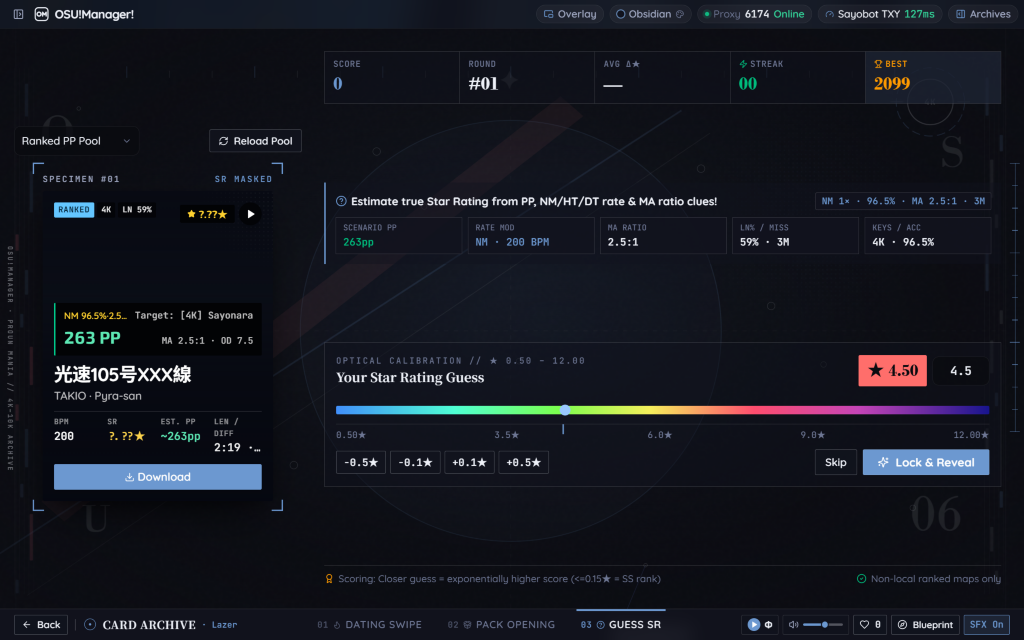
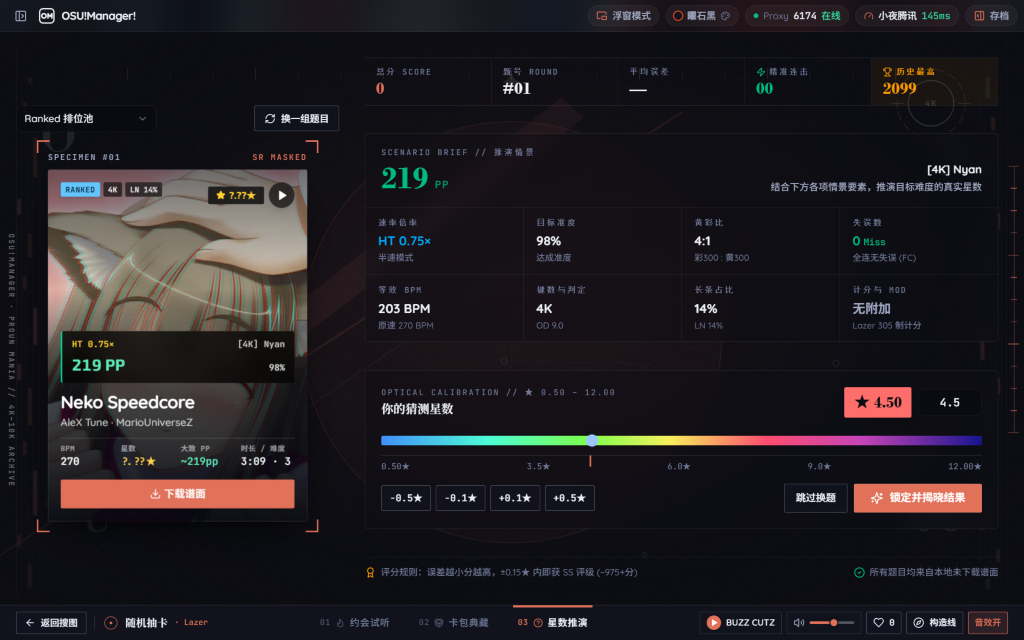
docs: update README, AGENT, CHANGELOG, DEVLOG and v1.16.1 screenshot

diff --git a/README.md b/README.md
@@ -112,11 +112,11 @@
       <sub>Default tab, HD fullsize artwork fanned right, direct group swipe targeting &amp; Constructivist foil backs</sub>
     </td>
     <td width="50%" align="center" valign="top">
-      <a href="docs/screenshots/12-gacha-guess.png"><img src="docs/screenshots/12-gacha-guess.png" alt="Random Card Draw — Obsidian Dark English Guess SR Mode with NM/HT/DT and MA Ratio" width="100%" /></a>
+      <a href="docs/screenshots/12-gacha-guess.png"><img src="docs/screenshots/12-gacha-guess.png" alt="Random Card Draw — Obsidian Dark Guess SR Mode with 8-Element Scenario Brief and 2D PROUN Backdrop" width="100%" /></a>
       <br />
-      <strong>12 · 随机抽卡 · 03 星数推演（暗色英文 · NM/HT/DT 与黄彩比 / MA Ratio · 锁定详情）</strong>
+      <strong>12 · 随机抽卡 · 03 星数推演（曜石黑 · Hero PP 顶栏与八项独立情景要素 · 锁定详情）</strong>
       <br />
-      <sub>Open Three.js backdrop, Details locked, 24 NM/HT/DT scenarios with MA Ratio, Zap streak &amp; delta ruler</sub>
+      <sub>Pure 2D PROUN backdrop, Details locked, Hero PP + 8-element Scenario Brief (Rate / Acc / MA / Miss / BPM / Keys·OD / LN% / Mods)</sub>
     </td>
   </tr>
   <tr>
@@ -159,7 +159,7 @@
 2. **Ranked 大致 PP 估算、情景筛选与 PP 计算器**
    - 所有列表与难度表直接显示 `ranked` / `approved` 谱面的大致 PP（`~XXXpp`）。
    - 筛选栏配备加粗 **Lazer 光谱星数双滑块（`0.0★–15.0★ / ∞`）** 与 **PP 范围双滑块（`0–2000pp / ∞`）**，以及主从分栏 **PP 情景库**（覆盖 `NM`、`DT 1.5x`、`HT 0.75x`、`变速 Rate` 与持久化 `自定义` 组合）。
-   - 内置交互式 PP 计算器，支持调整准度（80%–100%）、Miss、倍速、Mod 与 **自定义黄彩比（320:300）**，并可对未上架练习图模拟计算。
+   - 内置交互式 PP 计算器（对齐 `ppy/osu` Mania 准度制公式），支持调整准度（80%–100%）、Miss、倍速、**Lazer (305) / Classic (300)** 计分换算、Mod 与 **自定义黄彩比（320:300）**，并可对未上架练习图模拟计算。
 
 3. **双端曲库识别、零流量同步与极速批量下载**
    - 自动扫描 `osu!stable`（`Songs/`、`osu!.db`）与 `osu!lazer`（`client.realm` 只读二进制直读 + `files/`），本地已装谱面在任意视图自动点亮**四边金色框体**。
@@ -189,13 +189,13 @@
    - 覆盖搜图选歌、详情/PP 计算器、Mania 预览器、3D Book 档案库、OSU! 音乐台、游戏内浮窗、Electron 系统托盘菜单与后端错误/镜像描述的全量中英双语体验。
    - 可在「设置 → 分区 3」或新手引导右上角切换 `简体中文` / `English`（切换立即预览，点保存持久化至 `config.json`，取消/Esc 自动回滚）；右上角测速状态与提示文案严格跟随用户实际配置的 `proxyPort`（不再固定写死 `6174`）与直连/代理模式动态显示。
 
-10. **随机抽卡工作室（`v1.16.0` — 纯 2D PROUN 平面构成舞台 · 炉石拖拽开包 · 原画高清封面 · 动态构成主义卡背）**
+10. **随机抽卡工作室（`v1.16.1` — 纯 2D PROUN 平面构成舞台 · 炉石拖拽开包 · 原画高清封面 · 极简八要素猜星台）**
    - 在浏览模式 `Lazer` 按钮右侧提供「随机抽卡」入口，打开后**自动收起主左侧栏与存档栏**；模式切换栏下移至纤细的**底部导航 Dock**，**默认直接进入 `01 约会试听`**（顺序为 `01 约会试听 · 02 卡包典藏 · 03 星数推演`）。
    - **纯 2D PROUN × osu!mania 4K 平面构成背景（零 WebGL 开销）**：以高精度 SVG 构成主义海报几何与远边距双侧 `osu!mania` 4K 动态下落音符带替代 3D 模型渲染，随约会 / 卡包 / 推演三模式与全局主题切换构图（`B` 键切换平面辅助构造线），兼顾视觉锐度与轻量化性能。
    - **动态构成主义 × osu! 动效卡背（全新替换）**：告别星空样式，采用融合全局主题 `--t-osu` 的深炭金属 Foil 质感卡背，集成包豪斯斜切角、流光扫掠（Specular Foil Sweep）、双侧实时滚动的 `osu!mania` 4K 窄轨音符条以及中央双圈旋动游标尺 + 呼吸缩圈 `osu!` Approach Ring。
-   - **炉石传说风拖拽开包 + 秒开预取 + 高清卡片 & 20px 矢量金属脊**：左侧卡包叠放可按住拖拽并随速度产生 3D 倾斜，拖向右侧「Opening Altar」祭坛时逐级点亮光晕与瞄准锁框，松手磁吸炸开 3D 圆环（拖出松手平滑回弹，亦可点击或拉动顶部虚线封条）；卡片封面通过 `/api/media/cover/:id?hd=1` 代理缓存 `fullsize.jpg` 原画大图，配合 360° 立体检视器的真 3D `translateZ` 推进变焦与 `20px` 高精度 `<svg>` 钛金属雕刻侧脊（含纵向 `OSU! // ★SR // BPM // #serial`），彻底消除放大糊边。
+   - **炉石传说风拖拽开包 + 秒开预取 + 高清卡片 & 20px 矢量金属脊**：左侧卡包叠放可按住拖拽并随速度产生 3D 倾斜，拖向右侧「Opening Altar」祭坛时逐级点亮光晕与瞄准锁框，松手磁吸炸开 3D 圆环（拖出松手平滑回弹，亦可点击或拉动顶部虚线封条）；卡片封面通过 `/api/media/cover/:id?hd=1` 代理缓存 `fullsize.jpg` 原画大图，10 张紧凑圆环悬停单行显示「点击 360° 检视」，配合 360° 立体检视器的真 3D `translateZ` 推进变焦与 `20px` 高精度 `<svg>` 钛金属雕刻侧脊（含纵向 `OSU! // ★SR // BPM // #serial`），彻底消除放大糊边。
    - **多分组持久心动曲库与 `07 条件自选池`**：全模式收藏持久保存至 `data/gacha-collections.json`，支持新建/重命名/清空/删除分组、单曲多分组勾选分配、按组批量下载及约会顶部目标组直选；`07 条件自选池` 配备独立弹窗支持自主配池、同步主搜图条件与导入 Filter 存档。
-   - **03 星数推演**：移除卡片 `详情` 入口严格防止窥见真实星数，提供 24 种严格基于 `NM (1.0x)` / `HT (0.75x)` / `DT (1.5x)` 倍率与**黄彩比（`MA Ratio`）**/ Miss / `EZ` / `Classic` 组合的情景线索与闪电连击徽标。
+   - **03 星数推演**：移除卡片 `详情` 入口严格防止窥见真实星数，采用与 2D 舞台通透融合的极简 Hero PP 顶栏与 **4×2 八项独立情景要素网格**（速率倍率 / 目标准度 / 黄彩比 / 失误数 / 等效 BPM / 键数与判定 / 长条占比 / 计分与 Mod），提供 24 种严格基于 `NM (1.0x)` / `HT (0.75x)` / `DT (1.5x)` 倍率的实景推演。
 
 ### 快速开始
 
@@ -254,7 +254,7 @@ No osu! login or session cookie is required. It brings together multi-mirror bea
   - **Lazer Song Select (`lazer`)**: Viewport-locked split layout with rAF-driven curved carousel, staggered difficulty rows, `SR / OD / HP / LN%` bars, quick `HT / NM / DT` PP readout, full keyboard navigation (`↑/↓`, `←/→`, `Space`, `Enter`), and full-window cover-art theming.
   - **Grid (`grid`) & List (`list`) Views**: Dense card/list browsing with infinite scroll loading and gold borders on locally installed beatmaps.
 - **Ranked PP Estimation, Scenario Presets & PP Calculator**
-  - Dual-thumb spectral Star Rating (`0.0★–15.0★ / ∞`) and PP (`0–2000pp / ∞`) sliders plus master-detail scenario presets (`NM`, `DT 1.5x`, `HT 0.75x`, custom `Rate`, and saved presets) and a custom `320:300` MA ratio calculator.
+  - Dual-thumb spectral Star Rating (`0.0★–15.0★ / ∞`) and PP (`0–2000pp / ∞`) sliders plus master-detail scenario presets (`NM`, `DT 1.5x`, `HT 0.75x`, custom `Rate`, and saved presets), **official `ppy/osu` Mania PP accuracy math**, `Lazer (305)` / `Classic (300)` scoring conversion, and a custom `320:300` MA ratio calculator.
 - **Dual-Client Recognition, Zero-Traffic Sync & Fast Batch**
   - Scans both `osu!stable` (`Songs/`, `osu!.db`) and `osu!lazer` (zero-native-dep read-only `client.realm` + `files/`).
   - Sync maps missing in Lazer directly from Stable without re-downloading, launch/focus either game client from the sidebar, and run `1–500` map text-only Fast Batch downloads across 7 mirrors with IPv6 / proxy (`127.0.0.1:6174` default) smart routing.
@@ -271,12 +271,12 @@ No osu! login or session cookie is required. It brings together multi-mirror bea
 - **Full ZH / EN Bilingual Switcher & Dynamic Proxy Diagnostics**
   - Complete Simplified Chinese & English localization across Browse, Beatmap Detail & PP Calculator, Mania Previewer, 3D Book Archive, OSU! AUDIO Music Station, Acrylic Overlay, Electron Tray/Hotkeys, and backend mirror/status responses.
   - Switch live via **Settings → Section 3 (`简体中文 | English`)** or the onboarding header pill (persisted in `config.json`, safely rolls back on Cancel/Esc). Top-bar latency checks and toast notifications dynamically reflect your configured `proxyPort` or `Direct` mode.
-- **Random Card Draw Studio (`v1.16.0` — Pure 2D PROUN Graphic Stage, Hearthstone Drag-to-Altar, HD Covers & Kinetic Backs)**
+- **Random Card Draw Studio (`v1.16.1` — Pure 2D PROUN Graphic Stage, Hearthstone Drag-to-Altar, HD Covers & Minimalist 8-Element Guess Console)**
   - Accessible beside the `Lazer` view button in Browse mode; **automatically collapses both sidebars** on launch and exclusively draws non-local beatmapsets through clean numbered card pools (`01 All-Pool Mix` – `07 Custom Filter Pool`) and tier labels (`Standard` – `Apex 8★+`).
   - **Zero-WebGL 2D Flat PROUN × osu!mania Stage**: Replaces Three.js 3D meshes with a crisp flat vector editorial backdrop plus far-margin 2D `osu!mania` 4K scrolling rhythm lanes (adapting per tab and `B` blueprint mode) for sharper lines and minimal GPU overhead.
   - **Dynamic Constructivist × osu! Kinetic Card Back**: Replaces starry backdrops with a theme-infused (`--t-osu`) dark foil plate featuring Bauhaus diagonal cuts, drifting metallic sheen, twin live-scrolling 4K margin strips, counter-rotating vernier calipers, and a rhythmic contracting `osu!` Approach Ring.
-  - **Hearthstone Draggable Pack Table, HD Artwork & 20px Vector Spines**: Grab booster packs from a physical left reserve stack with velocity-driven 3D banking and drop them into a magnetically awakening right **Opening Altar** (outside drops smoothly spring back; tear seam drag & direct clicks remain supported). Cards fetch full-res `fullsize.jpg` covers via `/api/media/cover/:id?hd=1`, while the **360° Inspector** switches to true-3D `translateZ` zoom and razor-sharp **`20px` vector `<svg>` engraved titanium spines** (`OSU! // ★SR // BPM // #serial`), alongside `data/gacha-collections.json` multi-group favorites & the Pool `07` Custom Filter Modal.
-  - **03 Guess SR**: Keeps `Details` locked so stars stay hidden, serves 24 scenarios strictly using **`NM (1.0x)` / `HT (0.75x)` / `DT (1.5x)`** rates with **MA Ratio**, misses, and mod clues, plus a crisp Zap streak counter on the open 2D graphic canvas.
+  - **Hearthstone Draggable Pack Table, HD Artwork & 20px Vector Spines**: Grab booster packs from a physical left reserve stack with velocity-driven 3D banking and drop them into a magnetically awakening right **Opening Altar** (outside drops smoothly spring back; tear seam drag & direct clicks remain supported). Cards fetch full-res `fullsize.jpg` covers via `/api/media/cover/:id?hd=1` with a crisp single-line `360° INSPECT` hover badge even in compact 10-card rings, while the **360° Inspector** switches to true-3D `translateZ` zoom and razor-sharp **`20px` vector `<svg>` engraved titanium spines** (`OSU! // ★SR // BPM // #serial`), alongside `data/gacha-collections.json` multi-group favorites & the Pool `07` Custom Filter Modal.
+  - **03 Guess SR**: Keeps `Details` locked so stars stay hidden, pairing a translucent Hero PP header with a **4×2 grid of 8 independent scenario elements** (Rate, Accuracy, MA Ratio, Miss, Effective BPM, Keys & OD, LN%, Mods) across 24 `NM (1.0x)` / `HT (0.75x)` / `DT (1.5x)` challenges harmonized with the 2D graphic canvas.
 
 ### Quick Start
 

diff --git a/AGENT.md b/AGENT.md
@@ -50,7 +50,7 @@
 | `server/sources.ts` | 7 个下载镜像中英双语定义（含 `nameEn`/`shortNameEn`/`descriptionEn` 与 `getLocalizedMirrorInfo()`）：`sayobot-auto`, `sayobot-txy`, `nekoha`, `osudirect`, `beatconnect`, `nerinyan`, `official` |
 | `server/network.ts` | `undici` 多 IP 协议族直连（DNS 缓存 + IPv6 优先/双栈 Happy Eyeballs）/代理路由、`6174` 端口 TCP 探测、并发镜像测速 `benchmarkMirrors()` |
 | `server/search.ts` | `osu.direct` 主搜索 + Sayobot 故障转移、官网 URL/ID 直达、LN% 估算、PP 情景反推星数与精确过滤、本地状态注入及 `drawRandomBeatmapsets()`（Probe 0 加宽抽取 + fallback 探针 `Promise.allSettled` 并发加速） |
-| `server/pp.ts` | 后端 PP 计算引擎（与前端一致的 Mania/通用公式）与 `deriveStarBoundsFromPpFilter()` 星数区间反推 |
+| `server/pp.ts` | 后端 PP 计算引擎（对齐 `ppy/osu` 官方 Mania 准度制公式、区分 `Lazer 305` / `Classic 300` 换算与 LN 双判定）与 `deriveStarBoundsFromPpFilter()` 星数区间反推 |
 | `server/downloader.ts` | 并发下载队列、Magic Bytes (`PK\x03\x04`) 流首检测、自动切源重试、SSE 实时推送 |
 | `server/fastBatch.ts` | 快速跨页批量下载引擎：多镜像并发负载均衡、自动跨页扫描补齐目标数、跳过已装、IPv6/直连分流、Lazer 15 首合并 IPC 导入与节流 SSE 推送 |
 | `server/filterArchives.ts` | Filter 存档持久化管理：原子读写 `data/filter-archives.json`（上限 100 条、置顶排序、筛选条件与可选浏览位置上下文校验） |
@@ -59,7 +59,7 @@
 | `server/installer.ts` | `.osz` ZIP 校验 (`adm-zip` 与 `verifyOszFileFast` 尾目录异步速检)、Stable 解压/直投 `.osz`（`fastInstallToStable`）/运行期临时 IPC、Lazer 极速暂存/批量导入/运行加载、`launchGameClient()` 客户端拉起 |
 | `server/library.ts` | Stable `Songs` 扫描、Lazer `client.realm`/`online.db`/`files` 哈希扫描缓存、进程检测（含 `stableExeExists` / `lazerExeExists`）、双端差异比对 |
 | `server/realmReader.ts` | 零原生依赖只读 Realm v24 (`T-DB`) 二进制解析器（带文件锁临时拷贝回退），读取 Lazer `client.realm` 谱面、难度、元数据、文件映射与游玩成绩 |
-| `server/localLibrary.ts` | 双端本地曲库与成绩聚合器（融合 `osu!.db` / `Songs/` / `scores.db` 与 `client.realm` / `files/`），提供成绩去重、Mania PP 估算、延迟 `.osu` 背景提取与 SVG 回退、`.osu` 红线/Kiai/密度节奏解析及音频流输出 |
+| `server/localLibrary.ts` | 双端本地曲库与成绩聚合器（融合 `osu!.db` / `Songs/` / `scores.db` 与 `client.realm` / `files/`），提供成绩去重、全精度 float64 星数 Mania PP 估算、延迟 `.osu` 背景提取与 SVG 回退、`.osu` 红线/Kiai/密度节奏解析及音频流输出 |
 | `server/media.ts` | 封面图（支持 `?hd=1` 原画级 `fullsize.jpg` 优先拉取与独立 `cache/covers-hd/` 磁盘 LRU 缓存）与 MP3 音频试听代理 |
 | `server/preview.ts` | Mania `.osu` 解析（红线 BPM + 绿线 SV + Barline + NPS 密度）、本地/ZIP/`cache/osz` 音源查找、`206 Range` 音频流与背景图输出 |
 | `server/skins.ts` | 扫描 `D:\OSU\Skins` 与 `osu!.<user>.cfg` 激活皮肤、解析 `[Mania]` `skin.ini`、内置 3 套皮肤、PerCy 超长 LN PNG 无损前 2048 行扫描线裁切 (`cropPngTopRows`) |
@@ -83,7 +83,7 @@
 | `src/App.tsx` | 主工作区状态中心（配置与 `language` 持久化同步、SSE 订阅、全窗双缓冲封面背景与主色调取色、侧栏/筛选折叠与进入音乐台/随机抽卡时自动收起主左侧栏、主题/视图模式持久化、Lazer 按钮旁「随机抽卡」入口与 `<GachaStudio>` 切换、动态代理端口测速 Toast、滚底自动加载、批量选择与快速批量弹窗调度、`useCallback` 稳定列表回调） |
 | `src/constants.ts` | 8 套主题元信息 (`THEME_OPTIONS`)、10 组强调色预设、`DEFAULT_FONT_SCALE = 1.2`、双语工厂函数（`getViewModeOptions`, `getThemeOptions`, `getWorkflowPresets`, `getSortFields`, `getTargetMeta`, `getVariantOptions` 等）、官网光谱星数色阶 `getStarColor()` / `getStarSpectrum()`、统一双语 `getLnCategory()` |
 | `src/utils/themeColor.ts` | Canvas 24-bin 色相主色调提取器 (`extractDominantColor`) 与动态强调色 CSS 变量推导/应用 (`deriveAccentVariables`, `applyAccentVariables`, `clearAccentVariables`) |
-| `src/utils/pp.ts` | Ranked PP 准度制计算引擎（含 35 组 `NM / DT / HT / 变速` 情景预设与双语主/副展示文案、`localStorage` 自定义情景持久化、`calculateBeatmapPp`, `getQuickPpSummary`, `getBeatmapsetPpBadge`, `extractPpScenarioFromFilters`, `formatPpScenarioShort`, `isRankedForPp`） |
+| `src/utils/pp.ts` | Ranked PP 准度制计算引擎（对齐 `ppy/osu` 官方 Mania 公式含 `Lazer 305`/`Classic 300` 换算、35 组 `NM / DT / HT / 变速` 情景预设与双语展示文案、`localStorage` 自定义情景持久化、`calculateBeatmapPp`, `getQuickPpSummary`, `getBeatmapsetPpBadge`, `extractPpScenarioFromFilters`, `formatPpScenarioShort`, `isRankedForPp`） |
 | `src/utils/filterArchive.ts` | Filter 存档筛选净化、双语自动命名、语义摘要标签提取与创建时间格式化工具 |
 | `src/utils/maniaEngine.ts` | osu!mania Canvas2D 轨道渲染器（480p 坐标、BPM+SV 时间轴、PerCy `NoteBodyStyle` 0/1/2）与右侧滚动缩略图绘制引擎 |
 | `src/api.ts` | 前端 REST 封装（含随机抽卡 `drawGachaBeatmapsets`、`fetchGachaCollections`/分组与收藏 CRUD、Book 档案库、自定义壁纸、IPv6 网络状态、快速批量下载与游戏客户端启动接口） |
@@ -126,7 +126,7 @@
 | `src/components/DownloadDrawer.tsx` | 下载任务队列（含完成态预览/再加载按钮）与 Lazer 待导入队列批量导入抽屉 |
 | `src/components/FastBatchModal.tsx` | 极简纯文本「快速批量下载」工作台（目标数量 1–500、IPv6/直连分流、多镜像高并发与实时传输遥测） |
 | `src/components/LibrarySyncModal.tsx` | 双端曲库比对与 Stable→Lazer 零流量同步弹窗 |
-| `src/components/SettingsModal.tsx` | 客户端路径浏览、动态代理/IPv6 网络协议与镜像测速、`简体中文 / English` 界面语言切换（`segmented-auto` 防截断，即时预览/取消回滚/保存持久化）、8 主题/10 预设+自由取色强调色、界面字体大小缩放 (`85%–125%`，默认 `120%`)、自定义背景图与透明度 (`4%–100%`，默认 `75%`)、动态开关、浮窗热键、可选官方 Cookie 与「关于与帮助」（`v1.14.0` 版本号、GitHub 开源地址、重新观看新手引导）弹窗 |
+| `src/components/SettingsModal.tsx` | 客户端路径浏览、动态代理/IPv6 网络协议与镜像测速、`简体中文 / English` 界面语言切换（`segmented-auto` 防截断，即时预览/取消回滚/保存持久化）、8 主题/10 预设+自由取色强调色、界面字体大小缩放 (`85%–125%`，默认 `120%`)、自定义背景图与透明度 (`4%–100%`，默认 `75%`)、动态开关、浮窗热键、可选官方 Cookie 与「关于与帮助」（`v1.16.1` 版本号、GitHub 开源地址、重新观看新手引导）弹窗 |
 | `src/components/OnboardingModal.tsx` | 首次安装 6 步交互式环境配置与新手引导向导（右上角含 `中文 / EN` 快速切换、调用 `/api/config/detect-env` 探测多盘符客户端路径与本机代理端口，支持代理模式/端口预设、下载策略、实时主题/字号预览、配置摘要保存及防输入框箭头误触） |
 | `src/components/SelectField.tsx` | 统一下拉封装（支持 `<optgroup>` 嵌套匹配，解决 Chromium 原生箭头重叠问题） |
 | `src/components/gacha/gachaSketch.ts` | 参考 `Funkierry/the-masses-travels` 移植的确定性手绘 SVG 几何原语（过头抖动星环 `ring`、拱曲延展标尺 `rule`、毛笔 `brush`、光刃 `blade`、裁切角 `crops` 与星座连接） |
@@ -136,9 +136,10 @@
 | `src/components/gacha/GachaPackMode.tsx` | 卡包典藏模式（炉石风左侧储备卡包叠放 + 物理速度倾角拖拽投入右侧「Opening Altar」磁吸开包与拖出平滑回弹、支持虚线封条或点击开启、`01–07` 卡池选择与独立 Pool `07` 弹窗、Studio 预取秒开及 `<=1.0` 缩放高清 3D 圆环） |
 | `src/components/gacha/GachaCardInspectorModal.tsx` | Portal 挂载至 `document.body` (`z-[48]`) 的 360° 3D 立体卡片检视弹窗（真 3D `translateZ` 推进变焦无糊边、鼠标惯性 360° 旋转、`20px` 高精度矢量 `<svg>` 钛金属雕刻侧脊与 `OSU! // ★SR // BPM // #serial` 铭文、收藏红心、`F` 翻转至动态构成主义卡背、`R` 复位、`←/→` 切卡） |
 | `src/components/gacha/GachaDatingMode.tsx` | 约会试听模式（默认模式：通透无遮罩舞台、放大卡牌尺寸、右侧下方扇形叠放预告下两张卡片、顶部滑动目标分组选择器与切卡自动试听） |
+| `src/components/gacha/GachaGuessMode.tsx` | 猜星推演模式（通透毛玻璃极简控制台、Hero PP 顶栏、4×2 八项独立情景要素网格、光学星数校准尺、锁定详情防泄星与 `1280×720` 紧凑高度适配） |
 | `src/components/gacha/GachaCustomFilterModal.tsx` | Portal 弹窗形式 `POOL 07`「条件自选池」独立筛选配置面板（支持关键词/Keys/状态/SR/BPM/LN%/时长编辑，以及一键同步主搜图条件或导入 Filter 存档） |
 | `src/components/gacha/GachaLikedDrawer.tsx` | 默认收起的右侧多分组持久化「心动曲库」抽屉（支持新建、内联重命名、清空、安全删除分组、单曲多分组勾选分配、切换滑动目标组与按组一键批量下载） |
-| `src/components/gacha/BeatmapGachaCard.tsx` | 无边框 `3px` 收藏级 3D 正反谱面卡（默认请求 `?hd=1` 原画高清封面含失败自动回退、正反面 `translateZ(1px)` 防 Chromium 剔除错乱、翻牌粒子+光刃、全局收藏红心与可选 `onInspect` 360° 检视） |
+| `src/components/gacha/BeatmapGachaCard.tsx` | 无边框 `3px` 收藏级 3D 正反谱面卡（默认请求 `?hd=1` 原画高清封面含失败自动回退、正反面 `translateZ(1px)` 防 Chromium 剔除错乱、翻牌粒子+光刃、单行居中不换行 `点击 360° 检视` 悬停胶囊、全局收藏红心与可选 `onInspect`） |
 | `src/components/gacha/GachaCardBack.tsx` | **新增**：动态 Swiss / 构成主义 × `osu!` 动效卡背（全局 `--t-osu` 同色系暗炭 Foil 底、包豪斯斜切色块、斜向高光扫掠、双侧实时滚动 4K 窄轨音符条与中央双旋游标环 + 节奏缩圈 `osu!` Approach Ring） |
 | `src/components/gacha/gachaUtils.ts` | 去中二构图番号卡池配置（`01 综合图池`–`07 条件自选池`，含 `GachaPackSigil` 徽记与主题统一映射）、简明等级名（标准/进阶/专家/大师/巅峰）、24 种严格 `NM/HT/DT` + 黄彩比猜星情景与评分公式 |
 | `src/components/gacha/gachaSound.ts` | Web Audio API 合成开包撕裂、悬停律动、分阶翻牌爆裂、滑卡与猜星揭晓音效 |

diff --git a/docs/DEVLOG.md b/docs/DEVLOG.md
@@ -4,6 +4,32 @@
 
 ---
 
+## Session 27 — 修复卡包 360° 悬停换行、对齐官方 Mania PP 公式与重构星数推演八要素极简台 (`v1.16.1`)
+
+- **日期**：2026-11-26
+- **对话 ID**：`b77055a5-c9a6-48e8-8c6a-ac6acae69e19`
+- **功能代码提交**：`beb515c`
+
+### 需求与根因排查
+1. **卡包模式「点击 360° 检视」悬停排版换行**：`BeatmapGachaCard.tsx` 原悬停浮条锚定于 `top-11 left-1/2 -translate-x-1/2` 且缺少 `inline-flex whitespace-nowrap`，在紧凑圆环窄卡（`134–266px`）受限于半宽收缩被迫折成两行并与顶部星数徽标接近。改为跨全宽居中容器 `inset-x-0 top-[34%] flex justify-center` + `inline-flex shrink-0 whitespace-nowrap`，确保在 5 张/10 张卡包下始终单行居中且不遮挡上下角标与标题。
+2. **osu!mania PP 计算偏差根因与公式对齐**：
+   - 用户实测两份成绩偏差：`On And On!! feat. Jenga (Club Extended)` `[4K] And Or Nor Not`（Lazer NM `95.50%`, `2510/1902/403/44/10/12`）官服 `345.419pp` 误算为 `275.9pp`；`Triumph & Regret` `[4K] Regret`（Stable NM `98.83%`, `2542/1194/105/5/2/5`）官服 `293.32pp` 误算为 `225.3pp`。
+   - 对照上游 `ppy/osu` `ManiaPerformanceCalculator.cs`（`20241007+`）源码，定位两处公式误差与两处精度/换算误差：**官方总乘数基数为 `1.0`（而非 `0.8`），且 `ModClassic` 在 Mania 中无 `×0.96` 惩罚**（仅保留 `NF ×0.75` 与 `EZ ×0.5`）；同时 `localLibrary.ts` 之前将 `starRating` 截断为 2 位小数且 NM 仍查表 `starsByMod[0]`，而情景计算器未按 `Lazer (305)` / `Classic (300)` 基准将界面准度代数换算到官方 `320` 制 `customAccuracy`。
+   - 全量修正 `server/localLibrary.ts`（保留 `rawStarRating` float64 精度并优先采信最新 Lazer `client.realm` 星数）、`server/pp.ts` 与 `src/utils/pp.ts`（新增 `computeManiaCustomAccuracy()`、区分 Lazer LN 双判定计数并同步更新 `deriveStarBoundsFromPpFilter()`），以及 `PpCalculatorPanel.tsx` / `FilterPanel.tsx` 的 `Lazer (305)` / `Classic (300)` 按钮文案。
+3. **「03 星数推演」右侧情景 UI 极简化重构**：在 `GachaGuessMode.tsx` 彻底移除右上角拥挤串联小框（`DT 1.5× · 95% · 黄彩比 2:1 · 5M`）及嵌套实心底框，改用通透毛玻璃描边融入 2D PROUN 舞台；上方突出 Hero PP 与目标难度，下方 4×2 网格大方拆出 **速率倍率 / 目标准度 / 黄彩比 / 失误数 / 等效 BPM / 键数与判定 / 长条占比 / 计分与 Mod** 全部 8 项独立情景要素，并在 `1280×720` 复测捕捉到底部说明行贴边后微调自适应垂直间距彻底消除裁切。
+
+### 关键变更文件
+- **版本与后端计算**：`package.json` (`1.16.1`)、`src/constants.ts`、`server/localLibrary.ts`、`server/pp.ts`
+- **前端 PP 与抽卡 UI**：`src/utils/pp.ts`、`src/components/PpCalculatorPanel.tsx`、`src/components/FilterPanel.tsx`、`src/components/gacha/BeatmapGachaCard.tsx`、`src/components/gacha/GachaGuessMode.tsx`
+- **文档与截图**：`README.md`、`AGENT.md`、`CHANGELOG.md`、`docs/DEVLOG.md`、`docs/screenshots/12-gacha-guess.png`
+
+### 验证结果
+- **静态构建与纯 Node 实绩 PP 校验**：`npm run typecheck` 与 `npm run build` 均退出码 `0`；`verify-pp.mjs` 验证 `On And On!!` Lazer NM 为 `345.4 pp`（官服 `345.419`）、`Triumph & Regret` Stable NM 为 `293.3 pp`（官服 `293.32`，位列第一高于 Lazer `286.1 pp`），`calculateBeatmapPp` 与 `deriveStarBoundsFromPpFilter` 一致且包络真实星数。
+- **浏览器实机视觉验收 (`:3728`, `1440×900` & `1280×720`, Light/Obsidian)**：5 张与 10 张紧凑卡包悬停「点击 360° 检视」均测得单行 `93.00×18.35px`、水平零偏移居于封面中上区；「03 星数推演」浅色/曜石黑及揭晓态通透协调，修正后 `1280×720` 底部说明距底栏留白 `26px`、零横向溢出；`Book 档案库` 实显 `345.4 pp (估算)` 与 `293.3 pp (估算)`，计算器显示 `Lazer (305)` / `Classic (300)`；控制台与 HTTP `>=400` 报错均为 `0`。
+- **本地 EXE 打包与冒烟**：`npm run electron:pack` 生成 `release\win-unpacked\osu-manager.exe`（`FileVersion=1.16.1` / `ProductVersion=1.16.1`），隔离 `:3729` 冒烟实测 `GET /api/health` (`200`)、`GET /` (`200`) 及 `GET /api/books`（`On And On!!` `bestPp=345.4`、`Triumph & Regret` `bestPp=293.3`），清理后监听端口为 `0` 且 `data/config.json` 保持 `898` 字节未改动。
+
+---
+
 ## Session 26 — 纯 2D PROUN 平面舞台、炉石风拖拽开包、?hd=1 原画高清封面、20px 矢量金属脊与全新动效卡背 (`v1.16.0`)
 
 - **日期**：2026-11-26

diff --git a/CHANGELOG.md b/CHANGELOG.md
@@ -4,6 +4,19 @@ All notable changes to **OSU!Manager! (`osu-4k-dual-downloader`)** will be docum
 
 The format is based on [Keep a Changelog](https://keepachangelog.com/en/1.1.0/).
 
+## [1.16.1] - 2026-11-26
+
+### Changed & Fixed
+- **对齐 `ppy/osu` 官方 Mania 准度制 PP 公式（修复双端本地实绩与情景计算偏低）**（`server/localLibrary.ts`, `server/pp.ts`, `src/utils/pp.ts`, `src/components/PpCalculatorPanel.tsx`, `src/components/FilterPanel.tsx`）：
+  - 对照上游 `ppy/osu` `ManiaPerformanceCalculator.cs`（`20241007+`）：移除过时的 `0.8` 总乘数与误加的 `Classic ×0.96` 惩罚，改用官方 `multiplier = 1.0 * (NF ? 0.75 : 1) * (EZ ? 0.5 : 1)`；
+  - `server/localLibrary.ts` 保留 `client.realm` / `osu!.db` 全精度 float64 `StarRating`（并优先采信最新 Lazer `client.realm` 星数）用于本地成绩估算，消除 NM 覆盖旧 `osu!.db` 或 2 位小数舍入误差（实测 `On And On!!` Lazer NM 提升至 `345.4 pp`，`Triumph & Regret` Stable NM 提升至 `293.3 pp`）；
+  - `calculateBeatmapPp()` 与 `deriveStarBoundsFromPpFilter()` 新增 `computeManiaCustomAccuracy()` 代数换算 `Lazer (305)` / `Classic (300)` 准度与黄彩比并区分 Lazer LN 双端判定计数，同时将计算器切换按钮文本更新为 `Lazer (305)` / `Classic (300)`。
+- **修复卡包模式「点击 360° 检视」悬停标签换行排版**（`src/components/gacha/BeatmapGachaCard.tsx`）：
+  - 将正面上方居中胶囊改为跨全宽居中锚点（`inset-x-0 top-[34%]`）并施加 `inline-flex shrink-0 whitespace-nowrap`，在 5 张及 10 张紧凑卡包尺寸下均保持单行居中不换行，且与顶部星数徽标完全错开不重叠。
+- **重构「03 星数推演」右侧情景控制台美学与信息布局**（`src/components/gacha/GachaGuessMode.tsx`）：
+  - 移除右上角拥挤的串联摘要小框（`DT 1.5× · 95% · ...`）与沉重嵌套底框，改用通透毛玻璃极简描边适配 2D PROUN 背景；
+  - 上方展示大字号 Hero PP 与目标难度名，下方 4×2 网格独立舒展列出全部 8 项情景要素（速率倍率、目标准度、黄彩比、失误数、等效 BPM、键数与判定、长条占比、计分与 Mod），并优化 `1280×720` 紧凑高度适配与左侧卡片提示条。
+
 ## [1.16.0] - 2026-11-26
 
 ### Added & Changed
